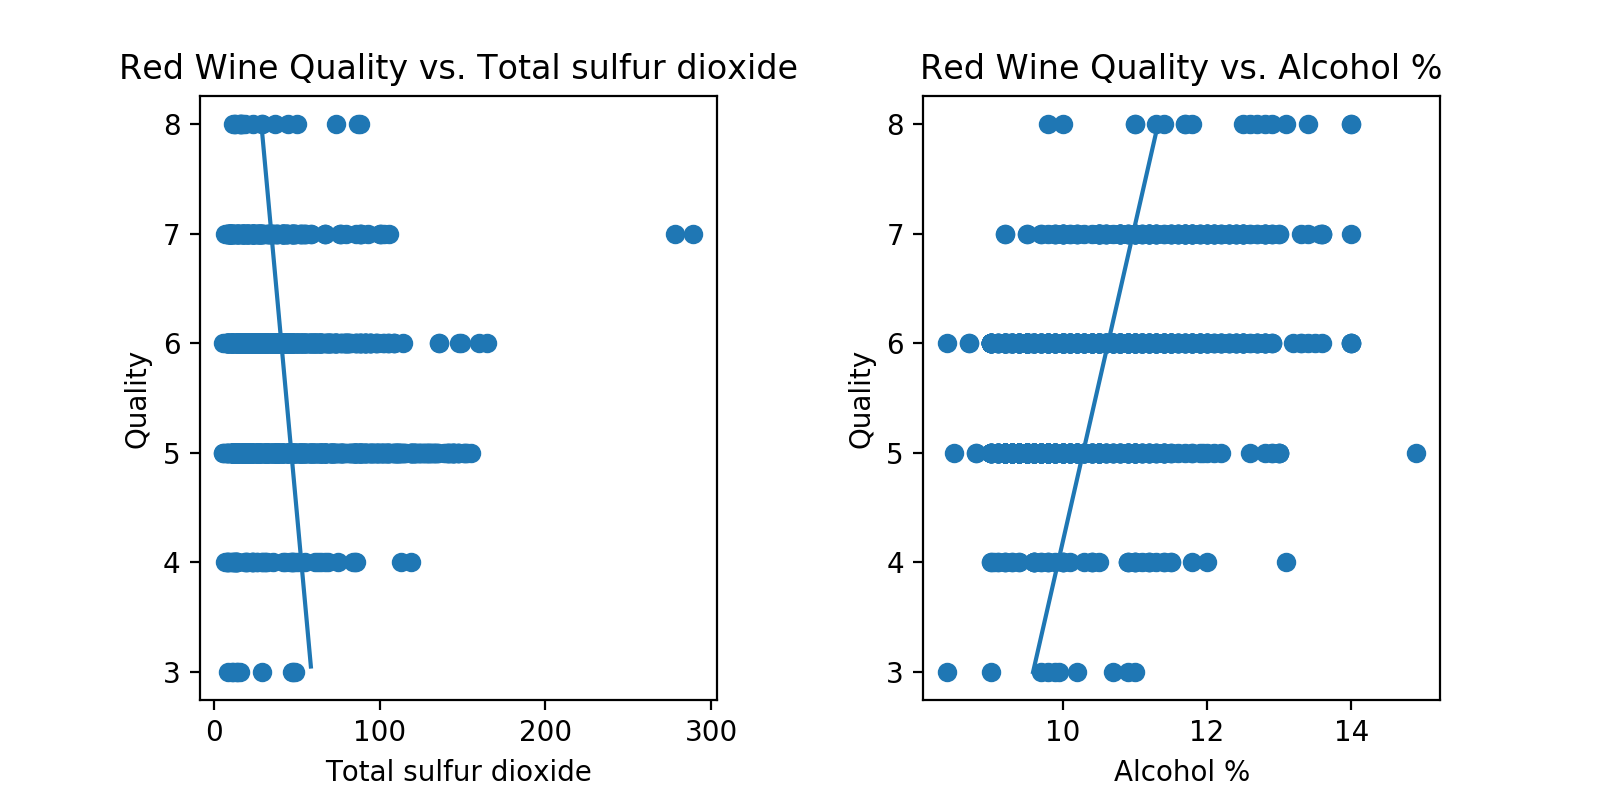
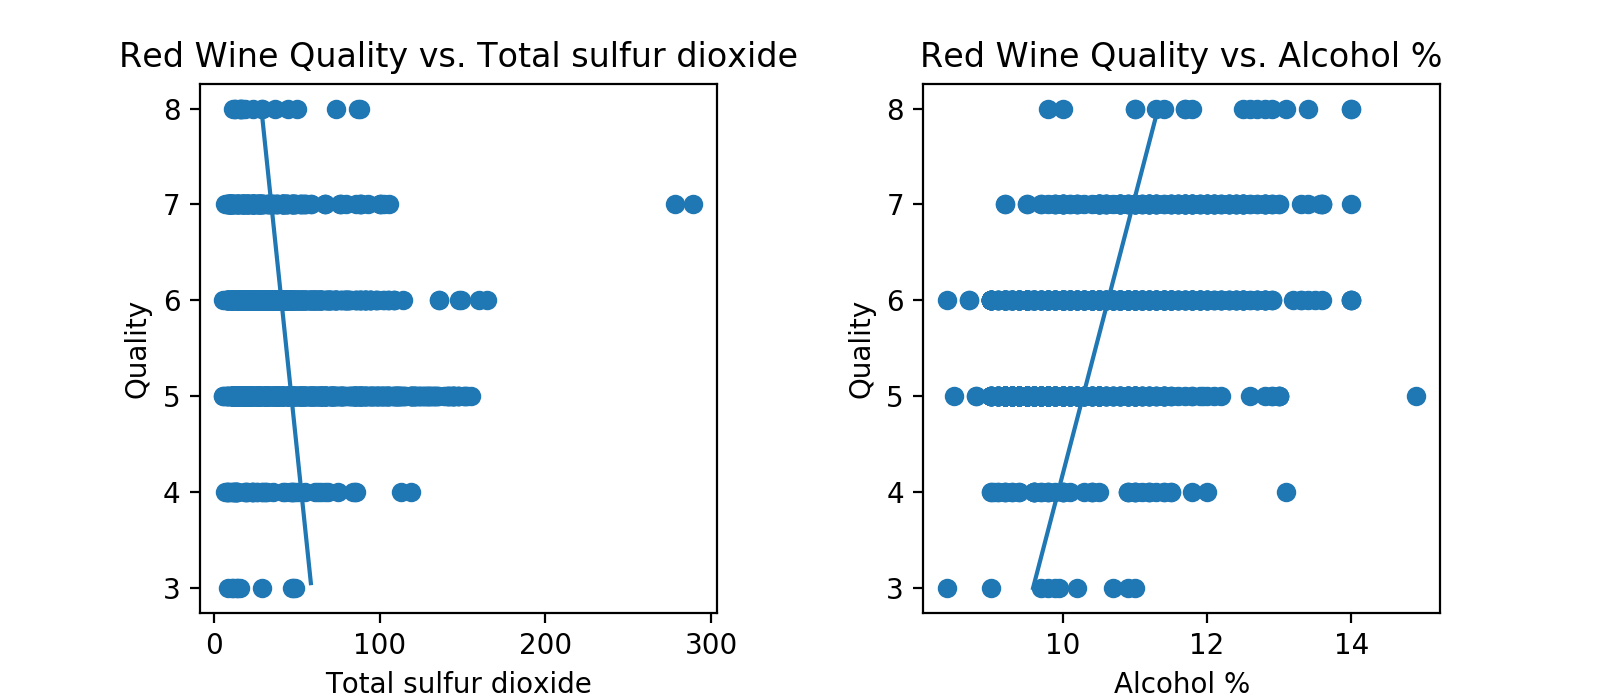
resized images

diff --git a/wine-quality-regression.py b/wine-quality-regression.py
@@ -55,7 +55,7 @@ def wine_data_analyzer(winedata, winetype):
     linear_contributions_2 = np.delete(linear_contributions, np.where(linear_contributions==max(linear_contributions)))
     sec_most_relevant_feature_lr = np.where(abs(linear_contributions_2)==max(abs(linear_contributions_2)))[0][0]+1
     
-    figure = plt.figure(figsize=(8, 4),dpi=200)
+    figure = plt.figure(figsize=(8, 3.5),dpi=200)
     gs  = gridspec.GridSpec(1, 2,  wspace=0.4, hspace=0.2)
     a = figure.add_subplot(gs[0, 0:1])
     a.scatter(X[:,most_relevant_feature_lr], y)
